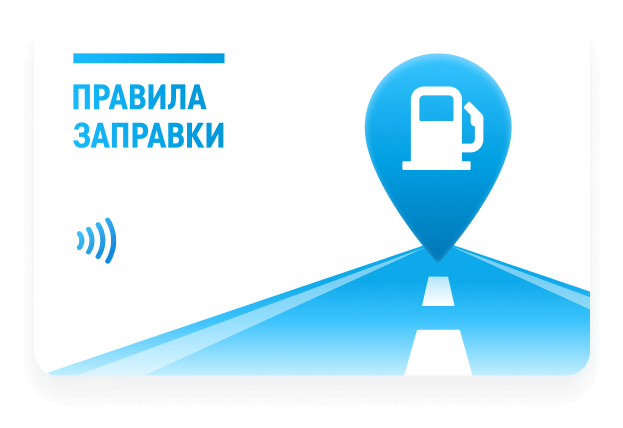
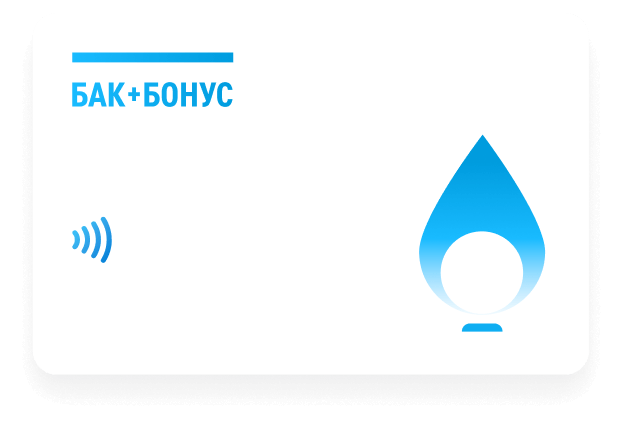
replaced email, images, colors and app name

diff --git a/privacy.html b/privacy.html
@@ -3,7 +3,7 @@
 <head>
     <meta charset="UTF-8">
     <meta name="viewport" content="width=device-width, initial-scale=1.0">
-    <title>Политика конфиденциальности - Правила заправки</title>
+    <title>Политика конфиденциальности - Бак+Бонус</title>
     <style>
         * {
             margin: 0;
@@ -12,17 +12,18 @@
         }
 
         :root {
-            --bg: #f3fbff;
-            --bg-blue: #0f9fe2;
-            --bg-dark: #0f3b5a;
-            --text-primary: #0f3b5a;
-            --text-secondary: #8a9ba7;
-            --hold: #cbd2d5;
-            --separator: #d6e0e4;
-            --blue-light: #e0f5ff;
-            --red: #fb4958;
-            --green: #3dc176;
-            --yellow: #f9ce33;
+            /* Обновленная цветовая палитра */
+            --bg: #f5f5f5;
+            --bg-blue: #00a6e8;
+            --bg-dark: #1a1a1a;
+            --text-primary: #1a1a1a;
+            --text-secondary: #6b6b6b;
+            --hold: #d1d1d1;
+            --separator: #e0e0e0;
+            --blue-light: #e6f7ff;
+            --red: #ff4757;
+            --green: #2ecc71;
+            --yellow: #ffd93d;
             --cell: #ffffff;
         }
 
@@ -296,7 +297,7 @@
     <div class="header-container">
         <div class="logo">
             <img src="./img/logo.png" alt="Logo">
-            <span>ПРАВИЛА ЗАПРАВКИ</span>
+            <span>Бак+Бонус</span>
         </div>
         <a href="./index.html" class="back-btn">
             ← На главную
@@ -310,15 +311,15 @@
         <h1>Политика конфиденциальности</h1>
 
         <div class="intro">
-            Настоящая Политика конфиденциальности определяет порядок сбора, обработки и защиты персональных данных пользователей мобильного приложения Правила заправки. Мы серьезно относимся к вопросам конфиденциальности и обеспечиваем надежную защиту информации наших пользователей в соответствии с требованиями действующего законодательства.
+            Настоящая Политика конфиденциальности определяет порядок сбора, обработки и защиты персональных данных пользователей мобильного приложения Бак+Бонус. Мы серьезно относимся к вопросам конфиденциальности и обеспечиваем надежную защиту информации наших пользователей в соответствии с требованиями действующего законодательства.
         </div>
 
         <h2>1. Основные положения</h2>
         <p>
-            Данная Политика распространяется на все персональные данные, собираемые и обрабатываемые в процессе использования мобильного приложения «Правила заправки» и связанных с ним сервисов.
+            Данная Политика распространяется на все персональные данные, собираемые и обрабатываемые в процессе использования мобильного приложения «Бак+Бонус» и связанных с ним сервисов.
         </p>
         <p>
-            Оператором персональных данных выступает ООО «Правила заправки». Использование приложения означает полное согласие пользователя с условиями настоящей Политики конфиденциальности.
+            Оператором персональных данных выступает ООО «Бак+Бонус». Использование приложения означает полное согласие пользователя с условиями настоящей Политики конфиденциальности.
         </p>
 
         <h2>2. Какие данные мы собираем</h2>
@@ -396,7 +397,7 @@
                 По всем вопросам, связанным с обработкой персональных данных, а также для реализации своих прав, вы можете обратиться к нам по электронной почте:
             </p>
             <p style="margin-top: 1rem; font-size: 1.1rem;">
-                <a href="mailto:vlad.goryuchkin@yandex.ru">vlad.goryuchkin@yandex.ru</a>
+                <a href="mailto:artemij.kluchnikov@yandex.ru">artemij.kluchnikov@yandex.ru</a>
             </p>
         </div>
 

diff --git a/index.html b/index.html
@@ -3,7 +3,7 @@
 <head>
     <meta charset="UTF-8">
     <meta name="viewport" content="width=device-width, initial-scale=1.0">
-    <title>Правила заправки</title>
+    <title>Бак+Бонус</title>
     <style>
         * {
             margin: 0;
@@ -12,18 +12,26 @@
         }
 
         :root {
-            /* Светлая тема по умолчанию */
-            --bg: #f3fbff;
-            --bg-blue: #0f9fe2;
-            --bg-dark: #0f3b5a;
-            --text-primary: #0f3b5a;
-            --text-secondary: #8a9ba7;
-            --hold: #cbd2d5;
-            --separator: #d6e0e4;
-            --blue-light: #e0f5ff;
+            /* Обновленная цветовая палитра */
+            --bg: #f5f5f5;
+            --bg-blue: #00a6e8;
+            --bg-dark: #1a1a1a;
+            --text-primary: #1a1a1a;
+            --text-secondary: #6b6b6b;
+            --hold: #d1d1d1;
+            --separator: #e0e0e0;
+            --blue-light: #e6f7ff;
             --card-bg: #ffffff;
-            --accent: #0f9fe2;
-            --shadow: rgba(15, 59, 90, 0.1);
+            --accent: #00a6e8;
+            --shadow: rgba(0, 0, 0, 0.08);
+
+            /* Дополнительные цвета из нового дизайна */
+            --blue-vibrant: #00a6e8;
+            --blue-gradient-start: #00b4ff;
+            --blue-gradient-end: #0099dd;
+            --text-on-blue: #ffffff;
+            --border-light: #e5e5e5;
+            --phone-frame: #000000;
         }
 
         body {
@@ -73,6 +81,7 @@
         .logo img {
             width: 28px;
             height: 28px;
+            margin-bottom: -5px;
         }
 
         .nav-links {
@@ -153,7 +162,7 @@
                     to bottom,
                     rgba(248, 249, 250, 0.7) 0%,
                     rgba(248, 249, 250, 1) 100%
-            ), url('./img/background.jpg') center/cover;
+            ), url('./img/background.png') center/cover;
         }
 
         .hero::before {
@@ -416,7 +425,7 @@
             left: 30px;
             width: 60px;
             height: 60px;
-            background: var(--text-primary);
+            background: var(--bg-blue);
             border-radius: 50%;
             display: flex;
             align-items: center;
@@ -738,7 +747,7 @@
     <div class="nav-container">
         <div class="logo">
             <img src="./img/logo.png" alt="Logo">
-            Правила заправки
+            Бак+Бонус
         </div>
         <ul class="nav-links">
             <li><a href="#features">Возможности</a></li>
@@ -892,7 +901,7 @@
         <div class="footer-about">
             <div class="footer-logo">
                 <img src="./img/logo.png" alt="Logo">
-                <span>Правила заправки</span>
+                <span>Бак+Бонус</span>
             </div>
             <p>Программа лояльности для автомобилистов.<br/>Копите бонусы и экономьте на каждой поездке.</p>
         </div>
@@ -908,12 +917,12 @@
             <h4>Контакты</h4>
             <ul>
                 <li><a href="./privacy.html">Политика конфиденциальности</a></li>
-                <li><a href="mailto:vlad.goryuchkin@yandex.ru">vlad.goryuchkin@yandex.ru</a></li>
+                <li><a href="mailto:artemij.kluchnikov@yandex.ru">artemij.kluchnikov@yandex.ru</a></li>
             </ul>
         </div>
     </div>
     <div class="footer-bottom">
-        <p>&copy; 2025 Правила заправки. Все права защищены.</p>
+        <p>&copy; 2025 Бак+Бонус. Все права защищены.</p>
     </div>
 </footer>
 
